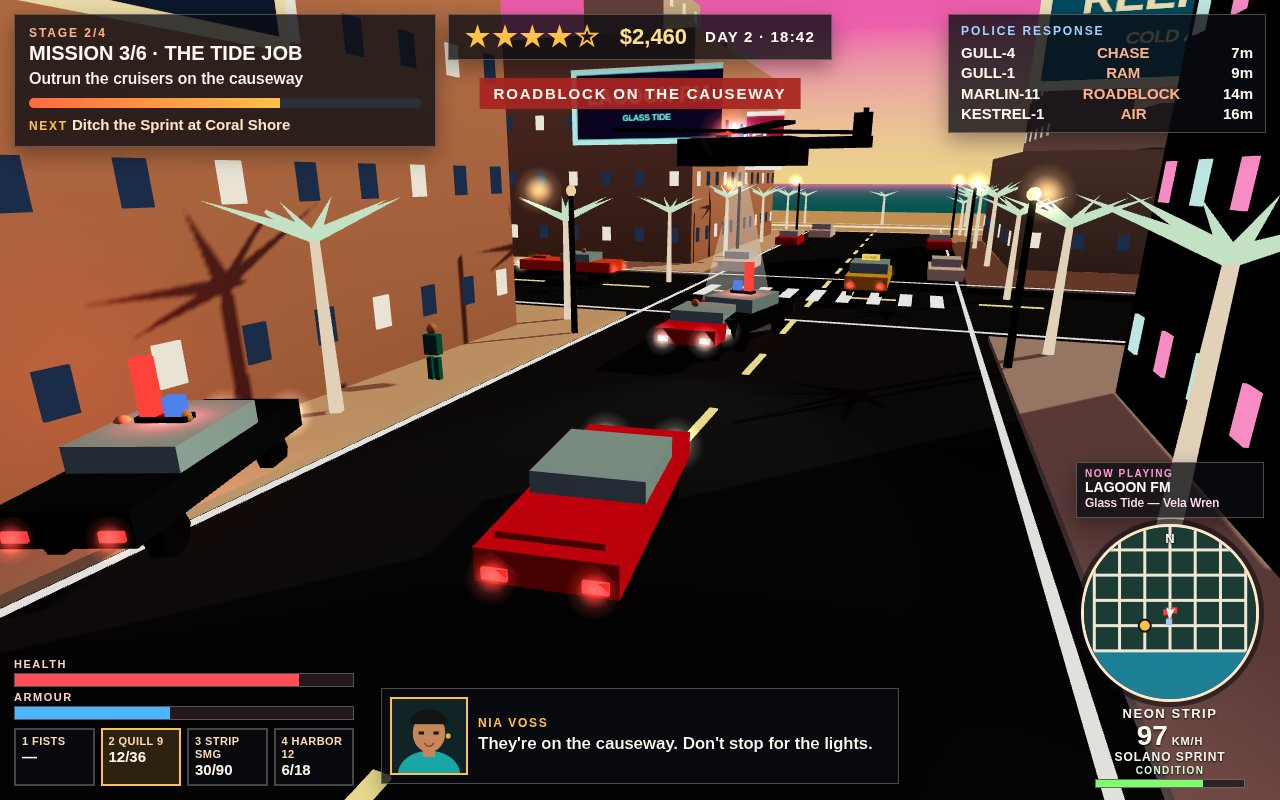
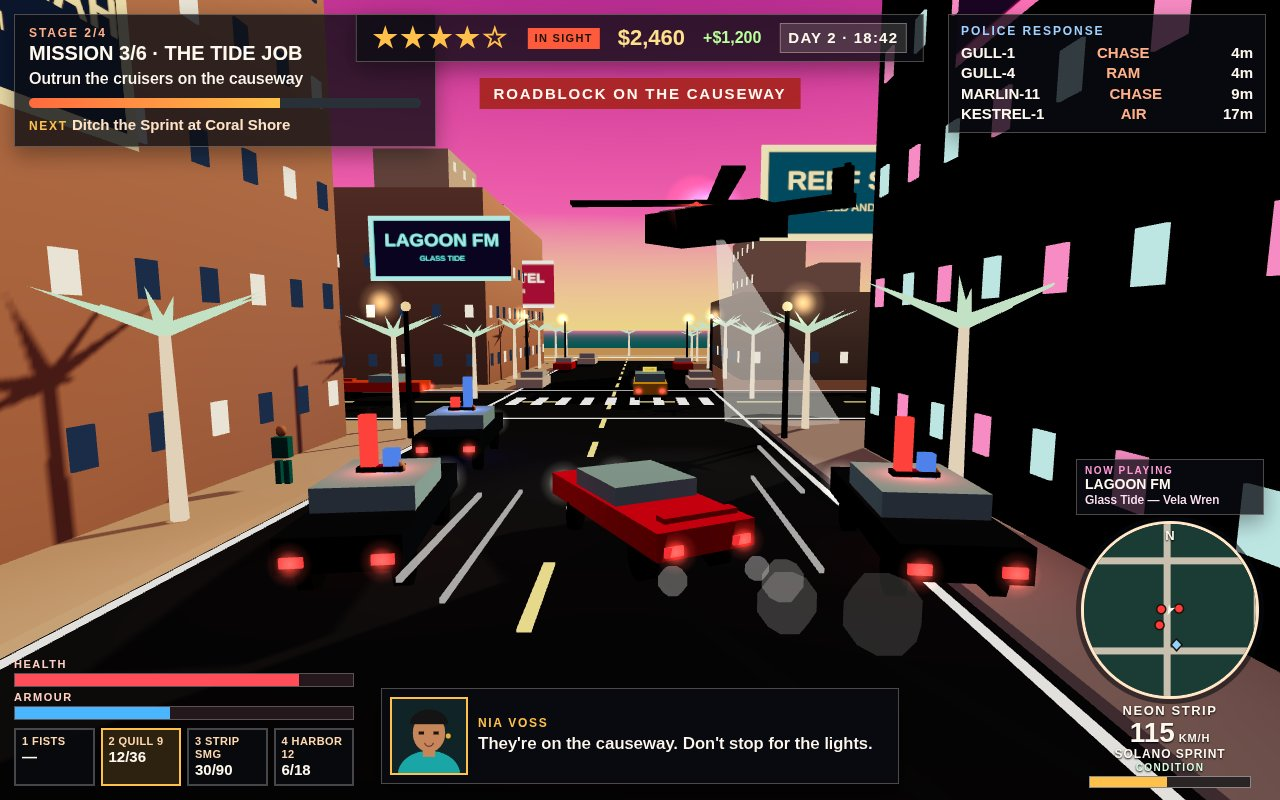
Frame the chase cover behind the Sprint and add the sight and cash chips

diff --git a/game/src/shots.js b/game/src/shots.js
@@ -1,5 +1,6 @@
 // Frozen screenshot scenes. One staged moment per ?shot= name. No unseeded motion.
 
+import * as THREE from '../vendor/three.module.min.js';
 import { SHOTS } from './config.js';
 import { setWantedStars } from './wanted.js';
 import { stagePolice } from './police.js';
@@ -14,6 +15,7 @@ function poseRig(player, rig, shot, testing) {
   rig.pitch = shot.pitch;
   rig.dist = shot.dist;
   rig.lookY = shot.lookY;
+  rig.aim = shot.aim || 2.2;
   rig.frozen = !testing;
 }
 
@@ -53,21 +55,73 @@ function placePed(ped, x, z, yaw) {
   ped.mesh.rotation.y = yaw;
 }
 
+function driftFx(scene, x, z, yaw) {
+  const nx = -Math.sin(yaw);
+  const nz = -Math.cos(yaw);
+  const rx = Math.cos(yaw);
+  const rz = -Math.sin(yaw);
+  const smokeGeo = new THREE.SphereGeometry(0.34, 6, 5);
+  const puff = [
+    [0.72, 2.35, 0.28, 0.55, 0.4],
+    [-0.72, 2.35, 0.36, 0.62, 0.36],
+    [0.4, 3.3, 0.5, 0.85, 0.28],
+    [-0.3, 4.2, 0.7, 1.05, 0.22],
+    [0.1, 5.2, 0.9, 1.25, 0.16],
+  ];
+  for (let i = 0; i < puff.length; i++) {
+    const s = puff[i];
+    const mat = new THREE.MeshBasicMaterial({ color: 0xe7e2d8, transparent: true, opacity: s[4], depthWrite: false });
+    const mesh = new THREE.Mesh(smokeGeo, mat);
+    mesh.position.set(x - nx * s[1] + rx * s[0], s[2], z - nz * s[1] + rz * s[0]);
+    mesh.scale.setScalar(s[3]);
+    scene.add(mesh);
+  }
+  const streak = new THREE.MeshBasicMaterial({ color: 0xfff8ee, transparent: true, opacity: 0.72, depthWrite: false });
+  const geo = new THREE.BoxGeometry(0.07, 0.07, 1);
+  const lines = [[-2.5, 0.38, 0.4, 5.4], [2.55, 0.42, -0.6, 5.6], [-2.8, 0.9, 1.8, 3.8], [2.85, 0.95, -2.2, 4.2]];
+  for (let i = 0; i < lines.length; i++) {
+    const s = lines[i];
+    const mesh = new THREE.Mesh(geo, streak);
+    mesh.position.set(x + s[0], s[1], z + s[2]);
+    mesh.scale.z = s[3];
+    scene.add(mesh);
+  }
+  const mark = new THREE.MeshBasicMaterial({ color: 0x121212 });
+  const slab = new THREE.PlaneGeometry(0.26, 1.15);
+  for (let i = 0; i < 5; i++) {
+    for (let side = -1; side <= 1; side += 2) {
+      const mesh = new THREE.Mesh(slab, mark);
+      mesh.rotation.order = 'YXZ';
+      mesh.rotation.y = yaw;
+      mesh.rotation.x = -Math.PI / 2;
+      const dist = 2.2 + i * 1.05;
+      mesh.position.set(x - nx * dist + rx * side * 0.7, 0.05, z - nz * dist + rz * side * 0.7);
+      scene.add(mesh);
+    }
+  }
+}
+
 function stageChase(world, shot) {
   const { combat, wanted, missions, dialogue, toast, radio } = world;
   setWantedStars(wanted, 4, shot.x, shot.z);
-  const ride = drive(world, 0, shot, 27, 0.72);
+  wanted.seen = true;
+  const ride = drive(world, 0, shot, 32, 0.48);
+  ride.steer = 0.62;
+  ride.skid = 1;
+  syncVehicle(ride, 0.02, 0.22);
   for (let i = 0; i < world.cars.length; i++) {
     const car = world.cars[i];
     if (car === ride) continue;
-    if (Math.hypot(car.x - shot.x, car.z - shot.z) < 7.5) car.mesh.visible = false;
+    if (Math.hypot(car.x - shot.x, car.z - shot.z) < 18) car.mesh.visible = false;
   }
-  stagePolice(world.police, 'chase', shot.x, shot.z, shot.face);
+  stagePolice(world.police, 'chase', shot.x, shot.z, shot.yaw);
   world.police.officers[0].active = false;
   world.police.officers[0].mesh.visible = false;
+  driftFx(world.scene, shot.x, shot.z, shot.face);
   combat.vitals.health = 84;
   combat.vitals.armour = 46;
   combat.vitals.cash = 2460;
+  combat.vitals.cashPop = 1200;
   combat.loadout.index = 1;
   stageMission(missions, 'chase');
   sayLine(dialogue, 'nia', "They're on the causeway. Don't stop for the lights.", 999);

diff --git a/game/src/police.js b/game/src/police.js
@@ -345,35 +345,39 @@ function placeUnit(car, x, z, yaw, role, time) {
 export function stagePolice(police, shot, x, z, yaw) {
   const time = 0.18;
   if (shot === 'chase') {
-    // Offsets sit in the chase camera (yaw 0.45, pitch 0.34, dist 13): one cruiser
-    // on the near right, one on the left, a roadblock down the road, heli low ahead.
-    placeUnit(police.units[0], x + 7.2, z + 4.8, yaw + 2.55, 'ram', time);
-    placeUnit(police.units[1], x - 6.4, z + 1.2, yaw + 0.25, 'chase', time);
-    placeUnit(police.units[2], x - 1.2, z - 13.5, yaw + Math.PI * 0.9, 'roadblock', time);
-    for (let i = 3; i < police.units.length; i++) police.units[i].mesh.visible = false;
-    yawForward(yaw, _fwd);
-    const cop = police.officers[0];
-    cop.active = true;
-    cop.mesh.visible = true;
-    cop.x = x + _fwd.x * 12 + 1.8;
-    cop.z = z + _fwd.z * 12;
-    cop.yaw = yaw + Math.PI;
-    cop.mesh.position.set(cop.x, 0, cop.z);
-    cop.mesh.rotation.set(0, cop.yaw, 0);
+    // yaw is the avenue, not the hero's drift. Cops sit beside and just behind.
     yawForward(yaw, _fwd);
     const rx = -_fwd.z;
     const rz = _fwd.x;
-    police.hx = x + _fwd.x * 16;
-    police.hz = z + _fwd.z * 16;
-    police.hy = 5.6;
+    const cops = [
+      { s: -4.3, b: 0.35, turn: 0.12, role: 'chase', t: 0.02 },
+      { s: 4.4, b: 0.7, turn: -0.1, role: 'ram', t: 0.16 },
+      { s: -5.1, b: -7.4, turn: 0.08, role: 'chase', t: 0.28 },
+    ];
+    for (let i = 0; i < cops.length; i++) {
+      const c = cops[i];
+      const px = x - _fwd.x * c.b + rx * c.s;
+      const pz = z - _fwd.z * c.b + rz * c.s;
+      placeUnit(police.units[i], px, pz, yaw + c.turn, c.role, c.t);
+    }
+    for (let i = 3; i < police.units.length; i++) police.units[i].mesh.visible = false;
+    for (let i = 0; i < police.officers.length; i++) {
+      police.officers[i].active = false;
+      police.officers[i].mesh.visible = false;
+    }
+    police.hx = x + _fwd.x * 17 + rx * 3.2;
+    police.hz = z + _fwd.z * 17 + rz * 3.2;
+    police.hy = 8.05;
     police.heli.mesh.visible = true;
-    police.heli.mesh.scale.setScalar(1.15);
+    police.heli.mesh.scale.setScalar(1.7);
     police.heli.mesh.position.set(police.hx, police.hy, police.hz);
-    police.heli.mesh.rotation.y = yaw + 1.25;
+    police.heli.mesh.rotation.y = yaw + 0.85;
     police.heli.rotor.rotation.y = 0.7;
     police.heli.beam.visible = true;
-    police.heli.spot.intensity = 8;
-    police.heli.target.position.set(x, 0.6, z);
+    police.heli.beam.rotation.x = -0.38;
+    police.heli.beam.material.opacity = 0.34;
+    police.heli.spot.intensity = 10;
+    police.heli.target.position.set(x, 0.5, z);
     police.bust = 0.4;
   } else if (shot === 'onfoot') {
     yawForward(yaw, _fwd);

diff --git a/game/src/hud.js b/game/src/hud.js
@@ -2,7 +2,7 @@
 import { GRID_X, GRID_Z, SPAN } from './config.js';
 import { paintPortrait } from './dialogue.js';
 
-const RANGE = 150;
+const RANGE = 42;
 
 function money(n) {
   const v = Math.max(0, Math.floor(n));
@@ -41,7 +41,9 @@ export function createHud(root) {
     missionFill: el(root, 'mission-fill'),
     missionNext: el(root, 'mission-next'),
     stars: el(root, 'stars'),
+    insight: el(root, 'insight'),
     cash: el(root, 'cash'),
+    cashPop: el(root, 'cashpop'),
     clock: el(root, 'clock'),
     units: el(root, 'units'),
     notice: el(root, 'notice'),
@@ -79,8 +81,9 @@ function drawMap(canvas, s) {
   const shore = P(px, 0);
   ctx.fillStyle = '#1c7f96';
   ctx.fillRect(0, shore[1], w, h);
-  ctx.strokeStyle = '#efe6d4';
-  ctx.lineWidth = 6;
+  ctx.strokeStyle = '#c8bfae';
+  ctx.lineWidth = 14;
+  ctx.lineCap = 'square';
   const maxX = GRID_X * SPAN;
   const maxZ = GRID_Z * SPAN;
   for (let i = 0; i <= GRID_X; i++) {
@@ -113,18 +116,31 @@ function drawMap(canvas, s) {
   const cops = s.police || [];
   for (let i = 0; i < cops.length; i++) {
     const p = P(cops[i].x, cops[i].z);
-    ctx.fillStyle = cops[i].kind === 'air' ? '#8fd4ff' : '#ff3a3a';
-    ctx.fillRect(p[0] - 6, p[1] - 6, 12, 12);
+    ctx.beginPath();
+    ctx.fillStyle = cops[i].kind === 'air' ? '#8fd4ff' : '#ff3b3b';
+    ctx.strokeStyle = '#1a1208';
+    ctx.lineWidth = 3;
+    if (cops[i].kind === 'air') {
+      ctx.moveTo(p[0], p[1] - 12);
+      ctx.lineTo(p[0] + 11, p[1]);
+      ctx.lineTo(p[0], p[1] + 12);
+      ctx.lineTo(p[0] - 11, p[1]);
+    } else {
+      ctx.arc(p[0], p[1], 9, 0, Math.PI * 2);
+    }
+    ctx.closePath();
+    ctx.fill();
+    ctx.stroke();
   }
   ctx.save();
   ctx.translate(w / 2, h / 2);
   ctx.rotate(Math.PI + (s.yaw || 0));
   ctx.fillStyle = '#fff8ee';
   ctx.beginPath();
-  ctx.moveTo(0, -14);
-  ctx.lineTo(9, 11);
-  ctx.lineTo(0, 5);
-  ctx.lineTo(-9, 11);
+  ctx.moveTo(0, -11);
+  ctx.lineTo(7, 9);
+  ctx.lineTo(0, 4);
+  ctx.lineTo(-7, 9);
   ctx.closePath();
   ctx.fill();
   ctx.restore();
@@ -144,7 +160,12 @@ export function updateHud(hud, s) {
     for (let i = 0; i < 5; i++) stars += i < s.stars ? '★' : '☆';
   }
   hud.stars.textContent = stars;
+  hud.insight.hidden = !(s.inSight && s.stars > 0 && s.down !== 'wasted' && s.down !== 'busted');
   hud.cash.textContent = money(s.cash);
+  if (s.cashPop > 0) {
+    hud.cashPop.hidden = false;
+    hud.cashPop.textContent = '+$' + String(Math.round(s.cashPop)).replace(/\B(?=(\d{3})+(?!\d))/g, ',');
+  } else hud.cashPop.hidden = true;
   hud.clock.textContent = clockText(s.day, s.clock);
   const rows = s.police || [];
   if (!rows.length) hud.units.textContent = 'NO UNITS IN RANGE';

diff --git a/game/index.html b/game/index.html
@@ -20,8 +20,10 @@
   #mission-next b { color: #ffc14a; letter-spacing: 0.14em; font-size: 12px; }
   #topbar { position: absolute; top: 14px; left: 50%; transform: translateX(-50%); display: flex; gap: 18px; align-items: center; padding: 8px 16px; }
   #stars { color: #ffc14a; font: 800 28px/1 sans-serif; letter-spacing: 0.08em; }
+  #insight { font: 800 11px/1 sans-serif; letter-spacing: 0.12em; color: #1a1208; background: #ff5a3c; padding: 5px 7px; }
   #cash { font: 800 22px/1 sans-serif; color: #ffe08a; }
-  #clock { font: 700 15px/1.2 sans-serif; letter-spacing: 0.08em; }
+  #cashpop { font: 800 16px/1 sans-serif; color: #b6ff9a; }
+  #clock { font: 700 15px/1.2 sans-serif; letter-spacing: 0.08em; padding: 5px 8px; background: rgba(255,244,230,0.14); border: 1px solid rgba(255,236,214,0.35); }
   #police { position: absolute; top: 14px; right: 14px; width: 292px; padding: 10px 12px 8px; }
   #police-kicker { font: 800 12px/1 sans-serif; letter-spacing: 0.16em; color: #9fd0ff; }
   #units { margin-top: 6px; font: 700 15px/1.35 sans-serif; }
@@ -56,10 +58,10 @@
   #speed small { font-size: 11px; letter-spacing: 0.08em; }
   #veh-name { font: 800 12px/1.2 sans-serif; letter-spacing: 0.08em; text-shadow: 0 1px 2px #000; }
   #cond-label { margin-top: 2px; font: 800 10px/1 sans-serif; letter-spacing: 0.14em; color: #d7ffe0; text-shadow: 0 1px 2px #000; }
-  #cond { height: 7px; width: 148px; margin: 3px auto 0; background: #2a2424; border: 1px solid rgba(255,255,255,0.3); }
+  #cond { height: 10px; width: 160px; margin: 3px auto 0; background: #2a2424; border: 1px solid rgba(255,255,255,0.45); }
   #cond b { display: block; height: 100%; width: 0; background: #7dff6a; }
   #crosshair { position: absolute; left: 50%; top: 46%; width: 18px; height: 18px; margin: -9px 0 0 -9px; border: 2px solid rgba(255,246,234,0.95); border-radius: 50%; }
-  #complete[hidden], #talk[hidden], #notice[hidden] { display: none; }
+  #complete[hidden], #talk[hidden], #notice[hidden], #insight[hidden], #cashpop[hidden] { display: none; }
   #complete { position: absolute; inset: 0; display: flex; align-items: center; justify-content: center; background: rgba(6,4,8,0.55); }
   #complete .card { width: 440px; padding: 28px 22px; text-align: center; }
   #complete h2 { margin: 0; font: 800 14px/1 sans-serif; letter-spacing: 0.2em; color: #ffc14a; }
@@ -102,7 +104,9 @@
   </section>
   <div id="topbar" class="panel">
     <div id="stars">☆☆☆☆☆</div>
+    <div id="insight" hidden>IN SIGHT</div>
     <div id="cash">$480</div>
+    <div id="cashpop" hidden>+$1,200</div>
     <div id="clock">DAY 2 · 18:42</div>
   </div>
   <section id="police" class="panel">

diff --git a/game/src/main.js b/game/src/main.js
@@ -476,8 +476,9 @@ function frameFocus() {
     return;
   }
   if (driven) {
-    yawForward(driven.yaw, nose);
-    focus.set(driven.x + nose.x * 2.2, rig.lookY, driven.z + nose.z * 2.2);
+    const aim = rig.aim > 0 ? rig.aim : 2.2;
+    yawForward(shotName === 'chase' ? rig.yaw : driven.yaw, nose);
+    focus.set(driven.x + nose.x * aim, rig.lookY, driven.z + nose.z * aim);
     return;
   }
   focus.set(player.mesh.position.x, rig.lookY + player.mesh.position.y, player.mesh.position.z);
@@ -617,7 +618,8 @@ function tick(now) {
     rig.dist = 190;
     rig.lookY = 12;
   }
-  if (live && driven) camera.fov = baseFov + Math.min(6, Math.abs(driven.speed) * 0.11);
+  if (shot && shotName === 'chase') camera.fov = 64;
+  else if (live && driven) camera.fov = baseFov + Math.min(6, Math.abs(driven.speed) * 0.11);
   else camera.fov = baseFov;
   camera.updateProjectionMatrix();
   placeCamera();
@@ -635,6 +637,8 @@ function tick(now) {
     health: combat.vitals.health,
     armour: combat.vitals.armour,
     cash: combat.vitals.cash,
+    cashPop: combat.vitals.cashPop || 0,
+    inSight: !!(wanted.seen && wanted.stars > 0),
     day,
     clock: dayClock,
     police: policeRoster(police, here.x, here.z),

diff --git a/game/src/config.js b/game/src/config.js
@@ -27,7 +27,8 @@ export const CAM = {
 
 // Frozen poses. lookY is the camera's look height above the ground point.
 export const SHOTS = {
-  chase: { x: 132, z: 66, face: 0.12, yaw: 0.36, pitch: 0.3, dist: 11.6, lookY: 1.42 },
+  // aim is how far ahead of the hero the chase camera looks. yaw is the road; face is the drift.
+  chase: { x: 133.4, z: 64, face: 0.48, yaw: 0, pitch: 0.115, dist: 24.2, lookY: 1.05, aim: 13.2 },
   onfoot: { x: 176, z: 108, face: 0.05, yaw: 0.22, pitch: 0.2, dist: 6.8, lookY: 1.48 },
   city: { x: 96, z: 44, face: -1.35, yaw: 0.7, pitch: 0.96, dist: 150, lookY: 8 },
   start: { x: 154, z: 72, face: 0, yaw: 0.48, pitch: 0.64, dist: 176, lookY: 12 },

diff --git a/game/src/camera.js b/game/src/camera.js
@@ -24,6 +24,7 @@ export function createChaseCamera() {
     pitch: CAM.pitch,
     dist: CAM.dist,
     lookY: CAM.lookY,
+    aim: 2.2,
     frozen: false,
     shake: 0,
     shakeT: 0,

diff --git a/NOTES.md b/NOTES.md
@@ -111,3 +111,19 @@ Recaptured `1-chase`, `2-onfoot`, `3-city`, `4-start`. All 1280×800 and under 2
 1. Cover camera: sit it behind the Sprint and a little above, so the foreground cruiser stops blocking the nose. Keep the other cruisers behind and beside, and KESTREL-1 higher in the purple sky.
 2. Keep each source file one job. The judge only sees file names and the first declarations.
 3. Cover stays `1-chase.jpg`. Do not put the menu on the chase shot.
+
+## Session 8 — chase cover frame and HUD chips
+
+`shots.js` `stageChase` / `driftFx` — `?shot=chase` looks straight down the Neon Strip avenue. The Solano Sprint sits lower-centre, yawed into a drift, with skid marks, tyre smoke behind the rear wheels, and speed streaks. `config.js` chase pose uses a long aim so the sunset fills the top third.
+
+`police.js` `stagePolice` chase — GULL-1 and GULL-4 flank the Sprint with flashing bars. MARLIN-11 runs ahead in the left lane. KESTREL-1 hangs in the pink sky with the searchlight tilted back down the avenue. No foot officer in the lens.
+
+`hud.js` / `index.html` — IN SIGHT chip on the stars, green `+$1,200` beside the cash, day-clock chip, thicker condition bar. Minimap range is 42 so the avenue, the cross street, and the police blips separate around the arrow. District name stays under the map.
+
+Recaptured `screenshots/1-chase.jpg` (1280×800, 156 KiB) and checked a 768×480 downscale. Other shots were not replaced.
+
+## Next
+
+1. If MARLIN-11 still sits on the vanishing point, nudge its chase slot further left. Speed streaks are thin at 768; thicken them only if the car stays clear.
+2. Keep each source file one job. The judge only sees file names and the first declarations.
+3. Cover stays `1-chase.jpg`. Do not put the menu on the chase shot.
